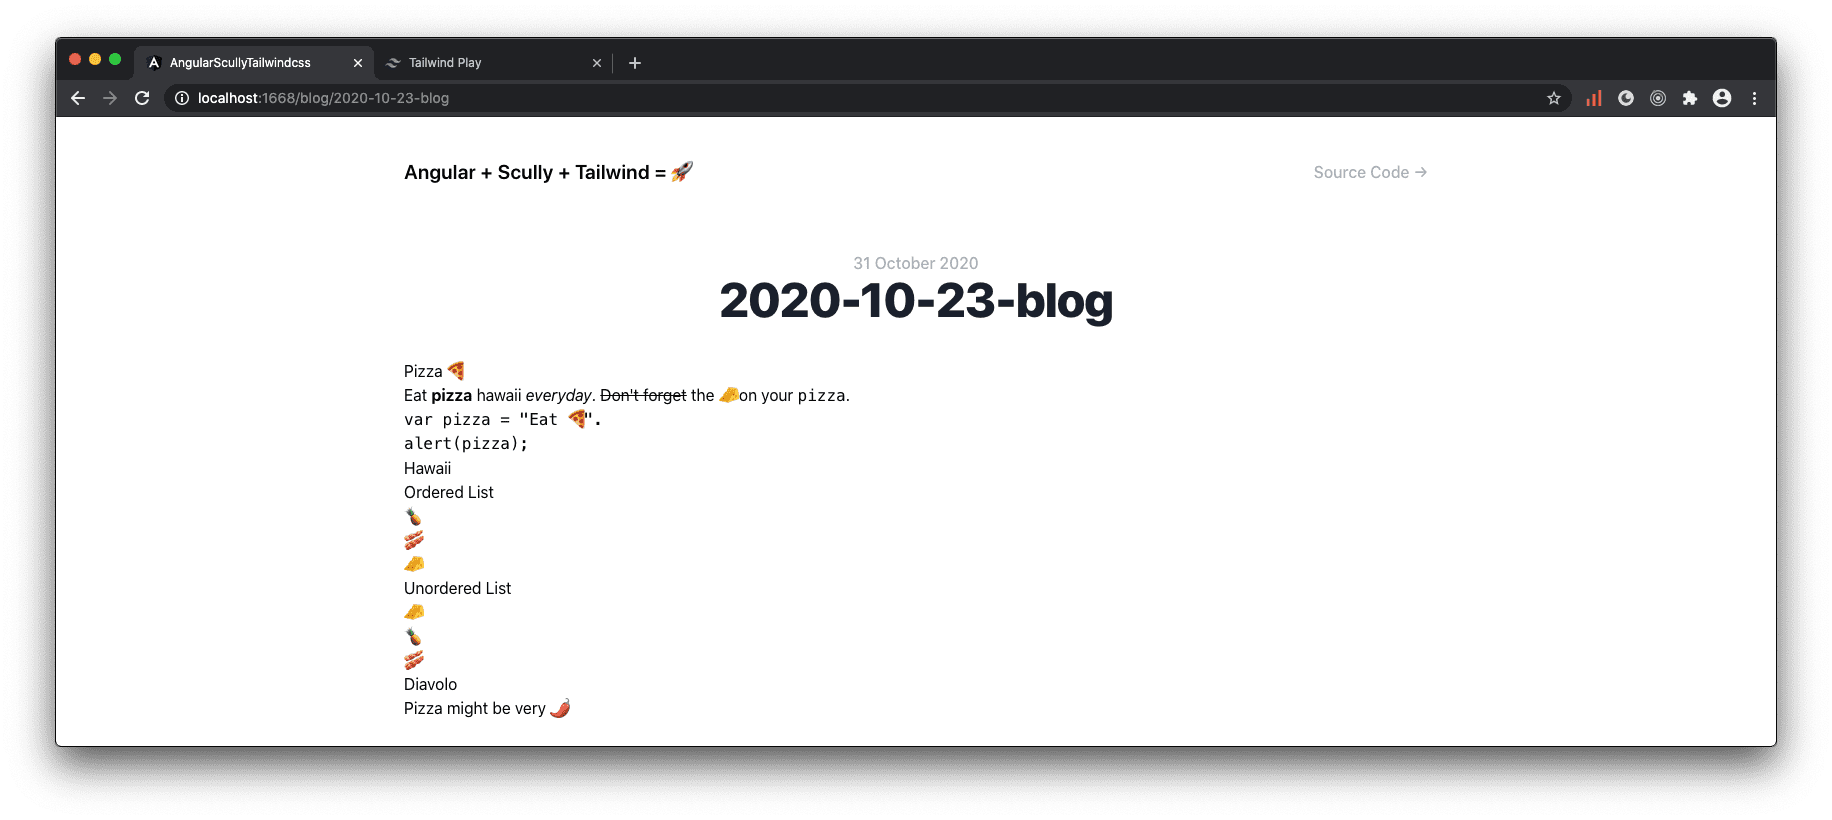
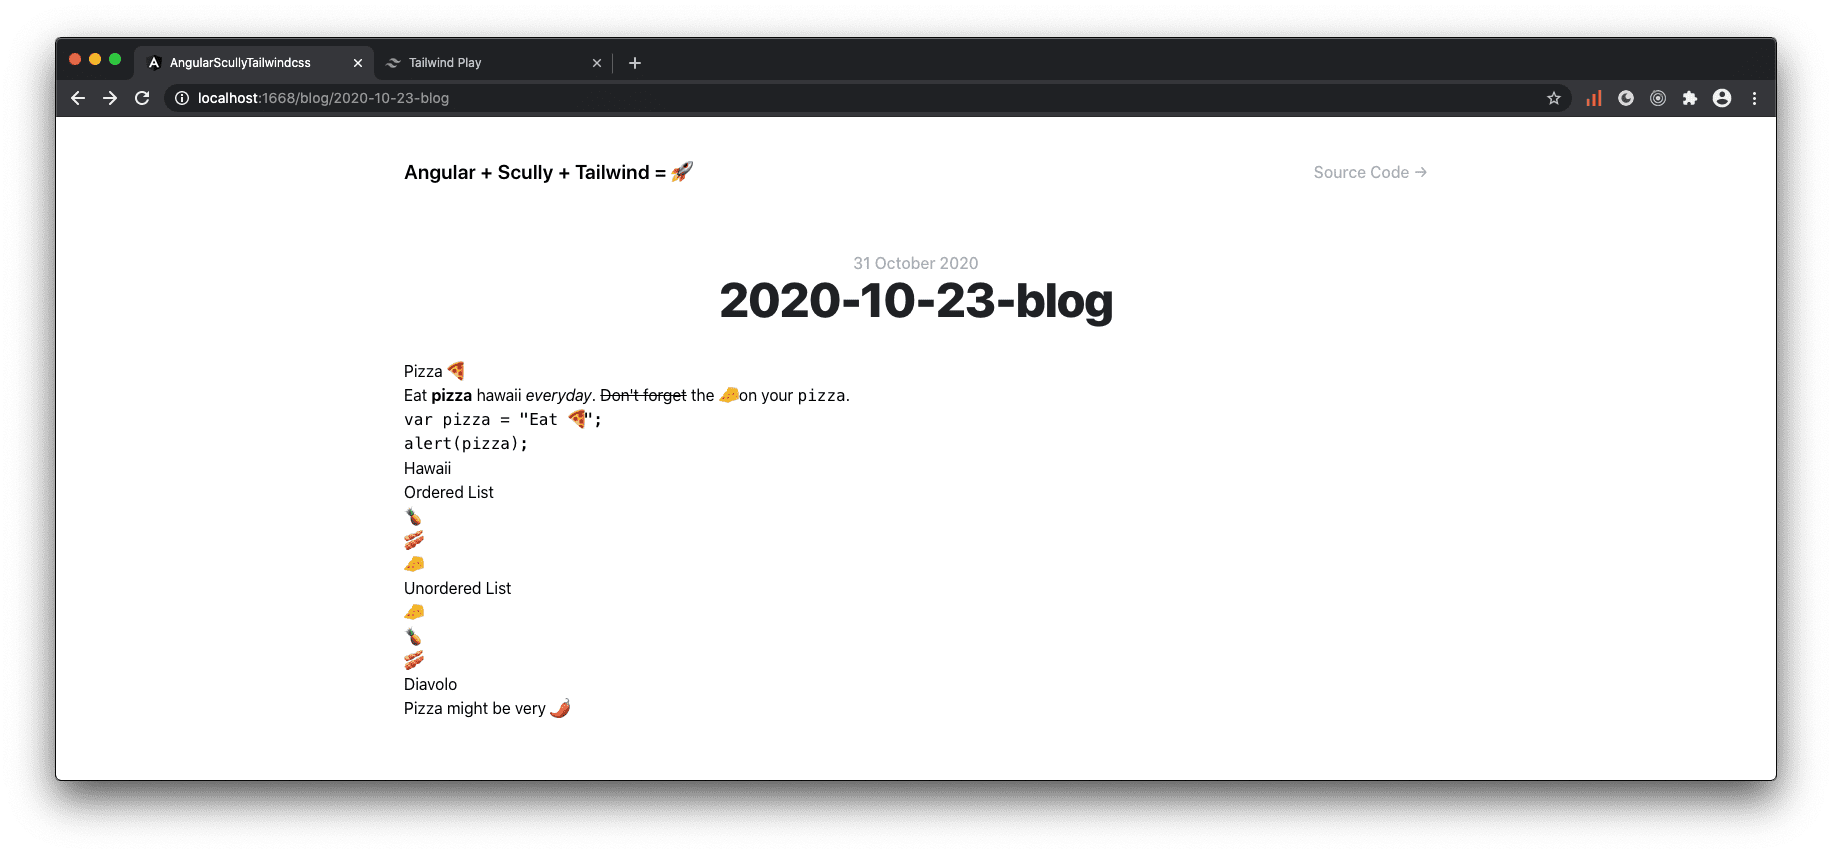
content: blog post overview page

diff --git a/content/blog/jamstack-angular-scully-tailwind-css.md b/content/blog/jamstack-angular-scully-tailwind-css.md
@@ -218,7 +218,7 @@ Update your blog front matter to set `published` to `true`, add `publishedAt` wi
 
 <pre lang="md"><code class="language-markdown">---
 title: 2020-10-23-blog
-description: "blog description"
+description: 10 Top tips about your next Pizza Hawaii
 published: true
 publishedAt: 2020-10-31T13:37:00.000Z
 ---
@@ -228,7 +228,7 @@ publishedAt: 2020-10-31T13:37:00.000Z
 Eat **pizza** hawaii *everyday*. ~~Don't forget~~ the 🧀 on your `pizza`.
 
 ```
-var pizza = "Eat 🍕".
+var pizza = "Eat 🍕";
 alert(pizza);
 ```
 
@@ -297,5 +297,114 @@ Blog post content is now styled 😎. How easy was that? Feel free to further [c
 
 ![Prose markdown content using Tailwind Typography plugin](assets/img/blog/jamstack-angular-scully-tailwind-css/optimized/scully-typography-prose-content.png)
 
+Last thing is left, listing all available posts and navigating to the post slug.
+
 ## Blog Overview Page
 
+Generate a new component for your route `/blog` displaying all available posts using `ScullyRoutesService.available$`.
+
+```bash
+ng g module blogs --route blogs --module blog/blog.module
+```
+
+Change the path of your new route in `blog-routing.module.ts` from `blogs` to empty to match the `/blog` route.
+
+```diff
+const routes: Routes = [
+  {
++   path: '',
+-   path: 'blogs',
+    loadChildren: () =>
+      import('../blogs/blogs.module').then((m) => m.BlogsModule),
+  },
+  {
+    path: ':slug',
+    component: BlogComponent,
+  },
+  {
+    path: '**',
+    component: BlogComponent,
+  },
+];
+```
+
+If you like to automatically redirect to `/blog` open `app-routing.module.ts`
+
+```diff
+const routes: Routes = [
++ { path: '', redirectTo: 'blog', pathMatch: 'full' },
+  {
+    path: 'blog',
+    loadChildren: () => import('./blog/blog.module').then((m) => m.BlogModule),
+  },
+];
+```
+
+Now create a reference for all available blog posts in `blogs.component.ts` filtering out pages with routes starting only with `/blog`.
+
+```ts
+import { Observable } from 'rxjs';
+import { filter, map } from 'rxjs/operators';
+import { Component, OnInit } from '@angular/core';
+import { ScullyRoute, ScullyRoutesService } from '@scullyio/ng-lib';
+
+@Component({
+  selector: 'app-blogs',
+  templateUrl: './blogs.component.html',
+  styleUrls: ['./blogs.component.scss'],
+})
+export class BlogsComponent implements OnInit {
+  available$: Observable<ScullyRoute[]>;
+
+  constructor(private scully: ScullyRoutesService) {}
+
+  ngOnInit(): void {
+    this.available$ = this.scully.available$.pipe(
+      map((r) => r.filter((page) => page.route.startsWith('/blog')))
+    );
+  }
+}
+```
+
+Important to note you have to import `ScullyLibModule` in your `blogs.module.ts` to access `ScullyRoutesService`.
+
+Add your blog name and loop over all posts in your template
+
+```html
+<div class="pt-6 pb-8 space-y-2 md:space-y-5">
+  <h1 class="text-3xl font-extrabold bg-clip-text text-transparent bg-gradient-to-r from-orange-500 via-yellow-400 to-yellow-200 tracking-tight sm:text-4xl md:text-6xl">Company Blog</h1>
+  <p class="text-lg leading-7 text-gray-500">All the latest Company news.</p>
+</div>
+
+<ul class="divide-y divide-gray-200">
+  <li *ngFor="let post of available$ | async">
+    <article class="space-y-2 xl:grid xl:grid-cols-4 xl:space-y-0 xl:items-baseline">
+      <dl>
+        <dt class="sr-only">Published on</dt>
+        <dd class="text-base leading-6 font-medium text-gray-500">
+          <time [dateTime]="post.publishedAt"> {{ post.publishedAt | date: "dd MMMM yyyy" }} </time>
+        </dd>
+      </dl>
+      <div class="space-y-5 xl:col-span-3">
+        <div class="space-y-6">
+          <h2 class="text-2xl leading-8 font-bold tracking-tight">
+            <a [routerLink]="post.route" class="text-gray-900 hover:text-gray-700"> {{ post.title }} </a>
+          </h2>
+          <div class="prose max-w-none text-gray-500">{{ post.description }}</div>
+        </div>
+        <div class="text-base leading-6 font-medium">
+          <a [routerLink]="post.route" class="text-orange-500 hover:text-orange-600"> Read more &rarr; </a>
+        </div>
+      </div>
+    </article>
+  </li>
+</ul>
+```
+
+![Blog overview page](assets/img/blog/jamstack-angular-scully-tailwind-css/optimized/blog-post-overview-page.png)
+
+What are you wait for? 😄 Now it's time for you to create your own blog 🚀. Use Scully schematics to generate new blog posts automatically for you 
+
+```bash
+ng generate @scullyio/init:post --name="Cool post"
+```
